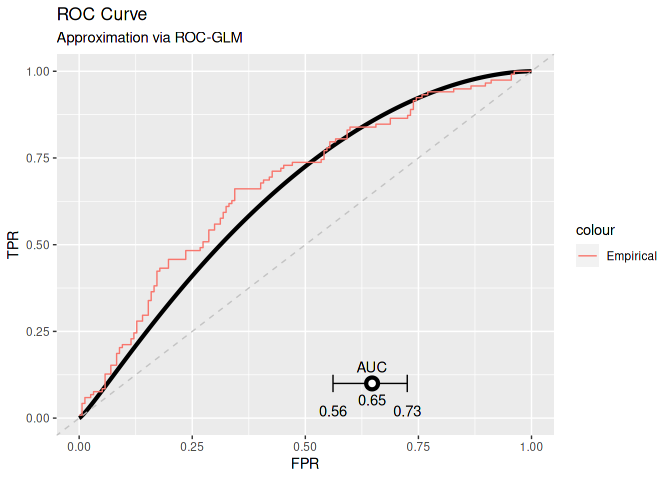
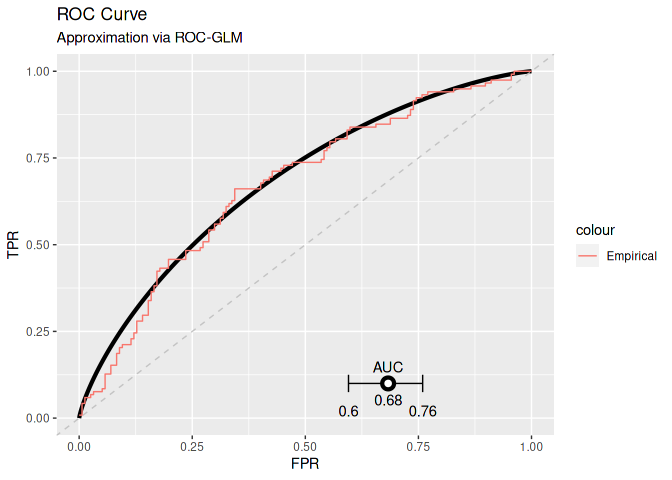
updates

diff --git a/README.md b/README.md
@@ -98,14 +98,14 @@ for (i in seq_along(datasets)) {
 conn = datashield.login(logins = builder$build(), assign = TRUE)
 #> 
 #> Logging into the collaborating servers
-#>    [-------------------------------------------------------------------------------------]   0% / 0s  Login ds1 [============>---------------------------------------------------------------]  17% / 0s  Login ds2 [========================>---------------------------------------------------]  33% / 0s  Login ds3 [=====================================>--------------------------------------]  50% / 1s  Login ds4 [==================================================>-------------------------]  67% / 1s  Login ds5 [==============================================================>-------------]  83% / 2s  Logged in all servers [================================================================] 100% / 2s
+#>    [-------------------------------------------------------------------------------------]   0% / 0s  Login ds1 [============>---------------------------------------------------------------]  17% / 0s  Login ds2 [========================>---------------------------------------------------]  33% / 0s  Login ds3 [=====================================>--------------------------------------]  50% / 1s  Login ds4 [==================================================>-------------------------]  67% / 1s  Login ds5 [==============================================================>-------------]  83% / 1s  Logged in all servers [================================================================] 100% / 2s
 #> 
 #>   No variables have been specified. 
 #>   All the variables in the table 
 #>   (the whole dataset) will be assigned to R!
 #> 
 #> Assigning table data...
-#>    [-------------------------------------------------------------------------------------]   0% / 0s  Assigning ds1 (DIFUTURE-TEST.SRV1) [=======>-------------------------------------------]  17% / 2s  Assigning ds2 (DIFUTURE-TEST.SRV2) [================>----------------------------------]  33% / 2s  Assigning ds3 (DIFUTURE-TEST.SRV3) [=========================>-------------------------]  50% / 2s  Assigning ds4 (DIFUTURE-TEST.SRV4) [=================================>-----------------]  67% / 3s  Assigning ds5 (DIFUTURE-TEST.SRV5) [=========================================>---------]  83% / 3s  Assigned all tables [==================================================================] 100% / 3s
+#>    [-------------------------------------------------------------------------------------]   0% / 0s  Assigning ds1 (DIFUTURE-TEST.SRV1) [=======>-------------------------------------------]  17% / 2s  Assigning ds2 (DIFUTURE-TEST.SRV2) [================>----------------------------------]  33% / 2s  Assigning ds3 (DIFUTURE-TEST.SRV3) [=========================>-------------------------]  50% / 3s  Assigning ds4 (DIFUTURE-TEST.SRV4) [=================================>-----------------]  67% / 3s  Assigning ds5 (DIFUTURE-TEST.SRV5) [=========================================>---------]  83% / 3s  Assigned all tables [==================================================================] 100% / 3s
 datashield.symbols(conn)
 #> $ds1
 #> [1] "D"
@@ -217,7 +217,7 @@ load(here::here("data/mod.Rda"))
 
 ## Push the model to the servers:
 pushObject(conn, obj = mod)
-#> [2022-02-10 17:57:29] Your object is bigger than 1 MB (7.2 MB). Uploading larger objects may take some time.
+#> [2022-02-10 18:06:07] Your object is bigger than 1 MB (7.2 MB). Uploading larger objects may take some time.
 #>    [-------------------------------------------------------------------------------------]   0% / 0s  Checking ds1 (mod <- decodeBinary("58-0a-00-00-00-03-00-04-01-02-00-03-05-00-00-00-00-05-55-54-...  Finalizing assignment ds1 (mod <- decodeBinary("58-0a-00-00-00-03-00-04-01-02-00-03-05-00-00-00...  Checking ds2 (mod <- decodeBinary("58-0a-00-00-00-03-00-04-01-02-00-03-05-00-00-00-00-05-55-54-...  Finalizing assignment ds2 (mod <- decodeBinary("58-0a-00-00-00-03-00-04-01-02-00-03-05-00-00-00...  Checking ds3 (mod <- decodeBinary("58-0a-00-00-00-03-00-04-01-02-00-03-05-00-00-00-00-05-55-54-...  Finalizing assignment ds3 (mod <- decodeBinary("58-0a-00-00-00-03-00-04-01-02-00-03-05-00-00-00...  Checking ds4 (mod <- decodeBinary("58-0a-00-00-00-03-00-04-01-02-00-03-05-00-00-00-00-05-55-54-...  Finalizing assignment ds4 (mod <- decodeBinary("58-0a-00-00-00-03-00-04-01-02-00-03-05-00-00-00...  Checking ds5 (mod <- decodeBinary("58-0a-00-00-00-03-00-04-01-02-00-03-05-00-00-00-00-05-55-54-...  Finalizing assignment ds5 (mod <- decodeBinary("58-0a-00-00-00-03-00-04-01-02-00-03-05-00-00-00...  Assigned expr. (mod <- decodeBinary("58-0a-00-00-00-03-00-04-01-02-00-03-05-00-00-00-00-05-55-5...
 datashield.symbols(conn)
 #> $ds1
@@ -283,7 +283,7 @@ l2s = dsL2Sens(conn, "D", "probs")
 #>    [-------------------------------------------------------------------------------------]   0% / 0s  Checking ds1 (dimDS("D")) [------------------------------------------------------------]   0% / 0s  Getting aggregate ds1 (dimDS("D")) [=======>-------------------------------------------]  17% / 0s  Checking ds2 (dimDS("D")) [=========>--------------------------------------------------]  17% / 0s  Getting aggregate ds2 (dimDS("D")) [================>----------------------------------]  33% / 0s  Checking ds3 (dimDS("D")) [===================>----------------------------------------]  33% / 1s  Getting aggregate ds3 (dimDS("D")) [=========================>-------------------------]  50% / 1s  Checking ds4 (dimDS("D")) [=============================>------------------------------]  50% / 1s  Getting aggregate ds4 (dimDS("D")) [=================================>-----------------]  67% / 1s  Checking ds5 (dimDS("D")) [=======================================>--------------------]  67% / 1s  Getting aggregate ds5 (dimDS("D")) [=========================================>---------]  83% / 1s  Aggregated (dimDS("D")) [==============================================================] 100% / 1s
 #>    [-------------------------------------------------------------------------------------]   0% / 0s  Checking ds1 (xXcols <- decodeBinary("58-0a-00-00-00-03-00-04-01-02-00-03-05-00-00-00-00-05-55-...  Finalizing assignment ds1 (xXcols <- decodeBinary("58-0a-00-00-00-03-00-04-01-02-00-03-05-00-00...  Checking ds2 (xXcols <- decodeBinary("58-0a-00-00-00-03-00-04-01-02-00-03-05-00-00-00-00-05-55-...  Finalizing assignment ds2 (xXcols <- decodeBinary("58-0a-00-00-00-03-00-04-01-02-00-03-05-00-00...  Checking ds3 (xXcols <- decodeBinary("58-0a-00-00-00-03-00-04-01-02-00-03-05-00-00-00-00-05-55-...  Finalizing assignment ds3 (xXcols <- decodeBinary("58-0a-00-00-00-03-00-04-01-02-00-03-05-00-00...  Checking ds4 (xXcols <- decodeBinary("58-0a-00-00-00-03-00-04-01-02-00-03-05-00-00-00-00-05-55-...  Finalizing assignment ds4 (xXcols <- decodeBinary("58-0a-00-00-00-03-00-04-01-02-00-03-05-00-00...  Checking ds5 (xXcols <- decodeBinary("58-0a-00-00-00-03-00-04-01-02-00-03-05-00-00-00-00-05-55-...  Finalizing assignment ds5 (xXcols <- decodeBinary("58-0a-00-00-00-03-00-04-01-02-00-03-05-00-00...  Assigned expr. (xXcols <- decodeBinary("58-0a-00-00-00-03-00-04-01-02-00-03-05-00-00-00-00-05-5...
 #>    [-------------------------------------------------------------------------------------]   0% / 0s  Checking ds1 (l2sens("D", "probs", 91, "xXcols")) [------------------------------------]   0% / 0s  Getting aggregate ds1 (l2sens("D", "probs", 91, "xXcols")) [===>-----------------------]  17% / 0s  Checking ds2 (l2sens("D", "probs", 91, "xXcols")) [=====>------------------------------]  17% / 0s  Getting aggregate ds2 (l2sens("D", "probs", 91, "xXcols")) [========>------------------]  33% / 0s  Checking ds3 (l2sens("D", "probs", 91, "xXcols")) [===========>------------------------]  33% / 1s  Getting aggregate ds3 (l2sens("D", "probs", 91, "xXcols")) [=============>-------------]  50% / 1s  Checking ds4 (l2sens("D", "probs", 91, "xXcols")) [=================>------------------]  50% / 1s  Getting aggregate ds4 (l2sens("D", "probs", 91, "xXcols")) [=================>---------]  67% / 1s  Checking ds5 (l2sens("D", "probs", 91, "xXcols")) [=======================>------------]  67% / 1s  Getting aggregate ds5 (l2sens("D", "probs", 91, "xXcols")) [=====================>-----]  83% / 1s  Aggregated (...) [=====================================================================] 100% / 1s
-#>    [-------------------------------------------------------------------------------------]   0% / 0s  Checking ds1 (rmDS("xXcols")) [--------------------------------------------------------]   0% / 0s  Getting aggregate ds1 (rmDS("xXcols")) [=======>---------------------------------------]  17% / 0s  Checking ds2 (rmDS("xXcols")) [========>-----------------------------------------------]  17% / 0s  Getting aggregate ds2 (rmDS("xXcols")) [===============>-------------------------------]  33% / 0s  Checking ds3 (rmDS("xXcols")) [==================>-------------------------------------]  33% / 0s  Getting aggregate ds3 (rmDS("xXcols")) [=======================>-----------------------]  50% / 1s  Checking ds4 (rmDS("xXcols")) [===========================>----------------------------]  50% / 1s  Getting aggregate ds4 (rmDS("xXcols")) [==============================>----------------]  67% / 1s  Checking ds5 (rmDS("xXcols")) [====================================>-------------------]  67% / 1s  Getting aggregate ds5 (rmDS("xXcols")) [======================================>--------]  83% / 1s  Aggregated (rmDS("xXcols")) [==========================================================] 100% / 1s
+#>    [-------------------------------------------------------------------------------------]   0% / 0s  Checking ds1 (rmDS("xXcols")) [--------------------------------------------------------]   0% / 0s  Getting aggregate ds1 (rmDS("xXcols")) [=======>---------------------------------------]  17% / 0s  Checking ds2 (rmDS("xXcols")) [========>-----------------------------------------------]  17% / 0s  Getting aggregate ds2 (rmDS("xXcols")) [===============>-------------------------------]  33% / 0s  Checking ds3 (rmDS("xXcols")) [==================>-------------------------------------]  33% / 1s  Getting aggregate ds3 (rmDS("xXcols")) [=======================>-----------------------]  50% / 1s  Checking ds4 (rmDS("xXcols")) [===========================>----------------------------]  50% / 1s  Getting aggregate ds4 (rmDS("xXcols")) [==============================>----------------]  67% / 1s  Checking ds5 (rmDS("xXcols")) [====================================>-------------------]  67% / 1s  Getting aggregate ds5 (rmDS("xXcols")) [======================================>--------]  83% / 1s  Aggregated (rmDS("xXcols")) [==========================================================] 100% / 1s
 epsilon = 0.3
 delta = 0.2
 
@@ -300,42 +300,42 @@ roc_glm = dsROCGLM(conn, "D$cens", "probs", epsilon = epsilon,
 #>    [-------------------------------------------------------------------------------------]   0% / 0s  Checking ds1 (l2sens("D", "probs", 91, "xXcols")) [------------------------------------]   0% / 0s  Getting aggregate ds1 (l2sens("D", "probs", 91, "xXcols")) [===>-----------------------]  17% / 0s  Checking ds2 (l2sens("D", "probs", 91, "xXcols")) [=====>------------------------------]  17% / 0s  Getting aggregate ds2 (l2sens("D", "probs", 91, "xXcols")) [========>------------------]  33% / 0s  Checking ds3 (l2sens("D", "probs", 91, "xXcols")) [===========>------------------------]  33% / 1s  Getting aggregate ds3 (l2sens("D", "probs", 91, "xXcols")) [=============>-------------]  50% / 1s  Checking ds4 (l2sens("D", "probs", 91, "xXcols")) [=================>------------------]  50% / 1s  Getting aggregate ds4 (l2sens("D", "probs", 91, "xXcols")) [=================>---------]  67% / 1s  Checking ds5 (l2sens("D", "probs", 91, "xXcols")) [=======================>------------]  67% / 1s  Getting aggregate ds5 (l2sens("D", "probs", 91, "xXcols")) [=====================>-----]  83% / 1s  Aggregated (...) [=====================================================================] 100% / 1s
 #>    [-------------------------------------------------------------------------------------]   0% / 0s  Checking ds1 (rmDS("xXcols")) [--------------------------------------------------------]   0% / 0s  Getting aggregate ds1 (rmDS("xXcols")) [=======>---------------------------------------]  17% / 0s  Checking ds2 (rmDS("xXcols")) [========>-----------------------------------------------]  17% / 0s  Getting aggregate ds2 (rmDS("xXcols")) [===============>-------------------------------]  33% / 0s  Checking ds3 (rmDS("xXcols")) [==================>-------------------------------------]  33% / 1s  Getting aggregate ds3 (rmDS("xXcols")) [=======================>-----------------------]  50% / 1s  Checking ds4 (rmDS("xXcols")) [===========================>----------------------------]  50% / 1s  Getting aggregate ds4 (rmDS("xXcols")) [==============================>----------------]  67% / 1s  Checking ds5 (rmDS("xXcols")) [====================================>-------------------]  67% / 1s  Getting aggregate ds5 (rmDS("xXcols")) [======================================>--------]  83% / 1s  Aggregated (rmDS("xXcols")) [==========================================================] 100% / 1s
 #> 
-#> [2022-02-10 18:00:46] L2 sensitivity is: 0.016
+#> [2022-02-10 18:09:26] L2 sensitivity is: 0.016
 #> 
 #>    [-------------------------------------------------------------------------------------]   0% / 0s  Checking ds1 (l2s <- decodeBinary("58-0a-00-00-00-03-00-04-01-02-00-03-05-00-00-00-00-05-55-54-...  Finalizing assignment ds1 (l2s <- decodeBinary("58-0a-00-00-00-03-00-04-01-02-00-03-05-00-00-00...  Checking ds2 (l2s <- decodeBinary("58-0a-00-00-00-03-00-04-01-02-00-03-05-00-00-00-00-05-55-54-...  Finalizing assignment ds2 (l2s <- decodeBinary("58-0a-00-00-00-03-00-04-01-02-00-03-05-00-00-00...  Checking ds3 (l2s <- decodeBinary("58-0a-00-00-00-03-00-04-01-02-00-03-05-00-00-00-00-05-55-54-...  Finalizing assignment ds3 (l2s <- decodeBinary("58-0a-00-00-00-03-00-04-01-02-00-03-05-00-00-00...  Checking ds4 (l2s <- decodeBinary("58-0a-00-00-00-03-00-04-01-02-00-03-05-00-00-00-00-05-55-54-...  Finalizing assignment ds4 (l2s <- decodeBinary("58-0a-00-00-00-03-00-04-01-02-00-03-05-00-00-00...  Checking ds5 (l2s <- decodeBinary("58-0a-00-00-00-03-00-04-01-02-00-03-05-00-00-00-00-05-55-54-...  Finalizing assignment ds5 (l2s <- decodeBinary("58-0a-00-00-00-03-00-04-01-02-00-03-05-00-00-00...  Assigned expr. (l2s <- decodeBinary("58-0a-00-00-00-03-00-04-01-02-00-03-05-00-00-00-00-05-55-5...
 #> 
-#> [2022-02-10 18:00:47] Initializing ROC-GLM
+#> [2022-02-10 18:09:27] Initializing ROC-GLM
 #> 
-#> [2022-02-10 18:00:47] Host: Received scores of negative response
+#> [2022-02-10 18:09:27] Host: Received scores of negative response
 #> 
-#> [2022-02-10 18:00:47] Receiving negative scores
+#> [2022-02-10 18:09:27] Receiving negative scores
 #>    [-------------------------------------------------------------------------------------]   0% / 0s  Checking ds1 (getNegativeScores("D$cens", "probs", 0.3, 0.2)) [------------------------]   0% / 0s  Getting aggregate ds1 (getNegativeScores("D$cens", "probs", 0.3, 0.2)) [=>-------------]  17% / 0s  Checking ds2 (getNegativeScores("D$cens", "probs", 0.3, 0.2)) [===>--------------------]  17% / 0s  Getting aggregate ds2 (getNegativeScores("D$cens", "probs", 0.3, 0.2)) [====>----------]  33% / 0s  Checking ds3 (getNegativeScores("D$cens", "probs", 0.3, 0.2)) [=======>----------------]  33% / 1s  Getting aggregate ds3 (getNegativeScores("D$cens", "probs", 0.3, 0.2)) [=======>-------]  50% / 1s  Checking ds4 (getNegativeScores("D$cens", "probs", 0.3, 0.2)) [===========>------------]  50% / 1s  Getting aggregate ds4 (getNegativeScores("D$cens", "probs", 0.3, 0.2)) [=========>-----]  67% / 1s  Checking ds5 (getNegativeScores("D$cens", "probs", 0.3, 0.2)) [===============>--------]  67% / 1s  Getting aggregate ds5 (getNegativeScores("D$cens", "probs", 0.3, 0.2)) [===========>---]  83% / 1s  Aggregated (...) [=====================================================================] 100% / 1s
-#> [2022-02-10 18:00:48] Host: Pushing pooled scores
+#> [2022-02-10 18:09:28] Host: Pushing pooled scores
 #>    [-------------------------------------------------------------------------------------]   0% / 0s  Checking ds1 (pooled_scores <- decodeBinary("58-0a-00-00-00-03-00-04-01-02-00-03-05-00-00-00-00...  Finalizing assignment ds1 (pooled_scores <- decodeBinary("58-0a-00-00-00-03-00-04-01-02-00-03-0...  Checking ds2 (pooled_scores <- decodeBinary("58-0a-00-00-00-03-00-04-01-02-00-03-05-00-00-00-00...  Finalizing assignment ds2 (pooled_scores <- decodeBinary("58-0a-00-00-00-03-00-04-01-02-00-03-0...  Checking ds3 (pooled_scores <- decodeBinary("58-0a-00-00-00-03-00-04-01-02-00-03-05-00-00-00-00...  Finalizing assignment ds3 (pooled_scores <- decodeBinary("58-0a-00-00-00-03-00-04-01-02-00-03-0...  Checking ds4 (pooled_scores <- decodeBinary("58-0a-00-00-00-03-00-04-01-02-00-03-05-00-00-00-00...  Finalizing assignment ds4 (pooled_scores <- decodeBinary("58-0a-00-00-00-03-00-04-01-02-00-03-0...  Checking ds5 (pooled_scores <- decodeBinary("58-0a-00-00-00-03-00-04-01-02-00-03-05-00-00-00-00...  Finalizing assignment ds5 (pooled_scores <- decodeBinary("58-0a-00-00-00-03-00-04-01-02-00-03-0...  Assigned expr. (pooled_scores <- decodeBinary("58-0a-00-00-00-03-00-04-01-02-00-03-05-00-00-00-...
-#> [2022-02-10 18:00:49] Server: Calculating placement values and parts for ROC-GLM
+#> [2022-02-10 18:09:29] Server: Calculating placement values and parts for ROC-GLM
 #>    [-------------------------------------------------------------------------------------]   0% / 0s  Checking ds1 (roc_data <- rocGLMFrame("D$cens", "probs", "pooled_scores")) [-----------]   0% / 0s  Finalizing assignment ds1 (roc_data <- rocGLMFrame("D$cens", "probs", "pooled_scores")) []  17%...  Checking ds2 (roc_data <- rocGLMFrame("D$cens", "probs", "pooled_scores")) [=>---------]  17% / 0s  Finalizing assignment ds2 (roc_data <- rocGLMFrame("D$cens", "probs", "pooled_scores")) []  33%...  Checking ds3 (roc_data <- rocGLMFrame("D$cens", "probs", "pooled_scores")) [===>-------]  33% / 1s  Finalizing assignment ds3 (roc_data <- rocGLMFrame("D$cens", "probs", "pooled_scores")) []  50%...  Checking ds4 (roc_data <- rocGLMFrame("D$cens", "probs", "pooled_scores")) [=====>-----]  50% / 1s  Finalizing assignment ds4 (roc_data <- rocGLMFrame("D$cens", "probs", "pooled_scores")) []  67%...  Checking ds5 (roc_data <- rocGLMFrame("D$cens", "probs", "pooled_scores")) [======>----]  67% / 1s  Finalizing assignment ds5 (roc_data <- rocGLMFrame("D$cens", "probs", "pooled_scores")) []  83%...  Assigned expr. (roc_data <- rocGLMFrame("D$cens", "probs", "pooled_scores")) [=========] 100% / 1s
-#> [2022-02-10 18:00:50] Server: Calculating probit regression to obtain ROC-GLM
+#> [2022-02-10 18:09:30] Server: Calculating probit regression to obtain ROC-GLM
 #>    [-------------------------------------------------------------------------------------]   0% / 0s  Checking ds1 (calculateDistrGLMParts(formula = y ~ x, data = "roc_data", w = "w", ) [--]   0% / 0s  Getting aggregate ds1 (calculateDistrGLMParts(formula = y ~ x, data = "roc_data", w = "w", ) []...  Checking ds2 (calculateDistrGLMParts(formula = y ~ x, data = "roc_data", w = "w", ) [--]  17% / 0s  Getting aggregate ds2 (calculateDistrGLMParts(formula = y ~ x, data = "roc_data", w = "w", ) []...  Checking ds3 (calculateDistrGLMParts(formula = y ~ x, data = "roc_data", w = "w", ) [>-]  33% / 1s  Getting aggregate ds3 (calculateDistrGLMParts(formula = y ~ x, data = "roc_data", w = "w", ) []...  Checking ds4 (calculateDistrGLMParts(formula = y ~ x, data = "roc_data", w = "w", ) [>-]  50% / 1s  Getting aggregate ds4 (calculateDistrGLMParts(formula = y ~ x, data = "roc_data", w = "w", ) []...  Checking ds5 (calculateDistrGLMParts(formula = y ~ x, data = "roc_data", w = "w", ) [>-]  67% / 1s  Getting aggregate ds5 (calculateDistrGLMParts(formula = y ~ x, data = "roc_data", w = "w", ) []...  Aggregated (calculateDistrGLMParts(formula = y ~ x, data = "roc_data", w = "w", ) [====] 100% / 1s
-#> [2022-02-10 18:00:51] Deviance of iter1=52.6631
+#> [2022-02-10 18:09:31] Deviance of iter1=52.6631
 #>    [-------------------------------------------------------------------------------------]   0% / 0s  Checking ds1 (calculateDistrGLMParts(formula = y ~ x, data = "roc_data", w = "w", ) [--]   0% / 0s  Getting aggregate ds1 (calculateDistrGLMParts(formula = y ~ x, data = "roc_data", w = "w", ) []...  Checking ds2 (calculateDistrGLMParts(formula = y ~ x, data = "roc_data", w = "w", ) [--]  17% / 0s  Getting aggregate ds2 (calculateDistrGLMParts(formula = y ~ x, data = "roc_data", w = "w", ) []...  Checking ds3 (calculateDistrGLMParts(formula = y ~ x, data = "roc_data", w = "w", ) [>-]  33% / 1s  Getting aggregate ds3 (calculateDistrGLMParts(formula = y ~ x, data = "roc_data", w = "w", ) []...  Checking ds4 (calculateDistrGLMParts(formula = y ~ x, data = "roc_data", w = "w", ) [>-]  50% / 1s  Getting aggregate ds4 (calculateDistrGLMParts(formula = y ~ x, data = "roc_data", w = "w", ) []...  Checking ds5 (calculateDistrGLMParts(formula = y ~ x, data = "roc_data", w = "w", ) [>-]  67% / 1s  Getting aggregate ds5 (calculateDistrGLMParts(formula = y ~ x, data = "roc_data", w = "w", ) []...  Aggregated (calculateDistrGLMParts(formula = y ~ x, data = "roc_data", w = "w", ) [====] 100% / 1s
-#> [2022-02-10 18:00:52] Deviance of iter2=75.3704
+#> [2022-02-10 18:09:32] Deviance of iter2=81.516
 #>    [-------------------------------------------------------------------------------------]   0% / 0s  Checking ds1 (calculateDistrGLMParts(formula = y ~ x, data = "roc_data", w = "w", ) [--]   0% / 0s  Getting aggregate ds1 (calculateDistrGLMParts(formula = y ~ x, data = "roc_data", w = "w", ) []...  Checking ds2 (calculateDistrGLMParts(formula = y ~ x, data = "roc_data", w = "w", ) [--]  17% / 0s  Getting aggregate ds2 (calculateDistrGLMParts(formula = y ~ x, data = "roc_data", w = "w", ) []...  Checking ds3 (calculateDistrGLMParts(formula = y ~ x, data = "roc_data", w = "w", ) [>-]  33% / 1s  Getting aggregate ds3 (calculateDistrGLMParts(formula = y ~ x, data = "roc_data", w = "w", ) []...  Checking ds4 (calculateDistrGLMParts(formula = y ~ x, data = "roc_data", w = "w", ) [>-]  50% / 1s  Getting aggregate ds4 (calculateDistrGLMParts(formula = y ~ x, data = "roc_data", w = "w", ) []...  Checking ds5 (calculateDistrGLMParts(formula = y ~ x, data = "roc_data", w = "w", ) [>-]  67% / 1s  Getting aggregate ds5 (calculateDistrGLMParts(formula = y ~ x, data = "roc_data", w = "w", ) []...  Aggregated (calculateDistrGLMParts(formula = y ~ x, data = "roc_data", w = "w", ) [====] 100% / 1s
-#> [2022-02-10 18:00:53] Deviance of iter3=86.5991
+#> [2022-02-10 18:09:33] Deviance of iter3=92.9034
 #>    [-------------------------------------------------------------------------------------]   0% / 0s  Checking ds1 (calculateDistrGLMParts(formula = y ~ x, data = "roc_data", w = "w", ) [--]   0% / 0s  Getting aggregate ds1 (calculateDistrGLMParts(formula = y ~ x, data = "roc_data", w = "w", ) []...  Checking ds2 (calculateDistrGLMParts(formula = y ~ x, data = "roc_data", w = "w", ) [--]  17% / 0s  Getting aggregate ds2 (calculateDistrGLMParts(formula = y ~ x, data = "roc_data", w = "w", ) []...  Checking ds3 (calculateDistrGLMParts(formula = y ~ x, data = "roc_data", w = "w", ) [>-]  33% / 1s  Getting aggregate ds3 (calculateDistrGLMParts(formula = y ~ x, data = "roc_data", w = "w", ) []...  Checking ds4 (calculateDistrGLMParts(formula = y ~ x, data = "roc_data", w = "w", ) [>-]  50% / 1s  Getting aggregate ds4 (calculateDistrGLMParts(formula = y ~ x, data = "roc_data", w = "w", ) []...  Checking ds5 (calculateDistrGLMParts(formula = y ~ x, data = "roc_data", w = "w", ) [>-]  67% / 1s  Getting aggregate ds5 (calculateDistrGLMParts(formula = y ~ x, data = "roc_data", w = "w", ) []...  Aggregated (calculateDistrGLMParts(formula = y ~ x, data = "roc_data", w = "w", ) [====] 100% / 1s
-#> [2022-02-10 18:00:54] Deviance of iter4=87.3497
+#> [2022-02-10 18:09:34] Deviance of iter4=93.5461
 #>    [-------------------------------------------------------------------------------------]   0% / 0s  Checking ds1 (calculateDistrGLMParts(formula = y ~ x, data = "roc_data", w = "w", ) [--]   0% / 0s  Getting aggregate ds1 (calculateDistrGLMParts(formula = y ~ x, data = "roc_data", w = "w", ) []...  Checking ds2 (calculateDistrGLMParts(formula = y ~ x, data = "roc_data", w = "w", ) [--]  17% / 0s  Getting aggregate ds2 (calculateDistrGLMParts(formula = y ~ x, data = "roc_data", w = "w", ) []...  Checking ds3 (calculateDistrGLMParts(formula = y ~ x, data = "roc_data", w = "w", ) [>-]  33% / 1s  Getting aggregate ds3 (calculateDistrGLMParts(formula = y ~ x, data = "roc_data", w = "w", ) []...  Checking ds4 (calculateDistrGLMParts(formula = y ~ x, data = "roc_data", w = "w", ) [>-]  50% / 1s  Getting aggregate ds4 (calculateDistrGLMParts(formula = y ~ x, data = "roc_data", w = "w", ) []...  Checking ds5 (calculateDistrGLMParts(formula = y ~ x, data = "roc_data", w = "w", ) [>-]  67% / 1s  Getting aggregate ds5 (calculateDistrGLMParts(formula = y ~ x, data = "roc_data", w = "w", ) []...  Aggregated (calculateDistrGLMParts(formula = y ~ x, data = "roc_data", w = "w", ) [====] 100% / 1s
-#> [2022-02-10 18:00:55] Deviance of iter5=87.3526
+#> [2022-02-10 18:09:35] Deviance of iter5=93.548
 #>    [-------------------------------------------------------------------------------------]   0% / 0s  Checking ds1 (calculateDistrGLMParts(formula = y ~ x, data = "roc_data", w = "w", ) [--]   0% / 0s  Getting aggregate ds1 (calculateDistrGLMParts(formula = y ~ x, data = "roc_data", w = "w", ) []...  Checking ds2 (calculateDistrGLMParts(formula = y ~ x, data = "roc_data", w = "w", ) [--]  17% / 0s  Getting aggregate ds2 (calculateDistrGLMParts(formula = y ~ x, data = "roc_data", w = "w", ) []...  Checking ds3 (calculateDistrGLMParts(formula = y ~ x, data = "roc_data", w = "w", ) [>-]  33% / 1s  Getting aggregate ds3 (calculateDistrGLMParts(formula = y ~ x, data = "roc_data", w = "w", ) []...  Checking ds4 (calculateDistrGLMParts(formula = y ~ x, data = "roc_data", w = "w", ) [>-]  50% / 1s  Getting aggregate ds4 (calculateDistrGLMParts(formula = y ~ x, data = "roc_data", w = "w", ) []...  Checking ds5 (calculateDistrGLMParts(formula = y ~ x, data = "roc_data", w = "w", ) [>-]  67% / 1s  Getting aggregate ds5 (calculateDistrGLMParts(formula = y ~ x, data = "roc_data", w = "w", ) []...  Aggregated (calculateDistrGLMParts(formula = y ~ x, data = "roc_data", w = "w", ) [====] 100% / 1s
-#> [2022-02-10 18:00:56] Deviance of iter6=87.3526
-#> [2022-02-10 18:00:56] Host: Finished calculating ROC-GLM
-#> [2022-02-10 18:00:56] Host: Cleaning data on server
-#> [2022-02-10 18:00:58] Host: Calculating AUC and CI
+#> [2022-02-10 18:09:36] Deviance of iter6=93.548
+#> [2022-02-10 18:09:36] Host: Finished calculating ROC-GLM
+#> [2022-02-10 18:09:36] Host: Cleaning data on server
+#> [2022-02-10 18:09:38] Host: Calculating AUC and CI
 #>    [-------------------------------------------------------------------------------------]   0% / 0s  Checking ds1 (meanDS(D$cens)) [--------------------------------------------------------]   0% / 0s  Getting aggregate ds1 (meanDS(D$cens)) [=======>---------------------------------------]  17% / 0s  Checking ds2 (meanDS(D$cens)) [========>-----------------------------------------------]  17% / 0s  Getting aggregate ds2 (meanDS(D$cens)) [===============>-------------------------------]  33% / 0s  Checking ds3 (meanDS(D$cens)) [==================>-------------------------------------]  33% / 1s  Getting aggregate ds3 (meanDS(D$cens)) [=======================>-----------------------]  50% / 1s  Checking ds4 (meanDS(D$cens)) [===========================>----------------------------]  50% / 1s  Getting aggregate ds4 (meanDS(D$cens)) [==============================>----------------]  67% / 1s  Checking ds5 (meanDS(D$cens)) [====================================>-------------------]  67% / 1s  Getting aggregate ds5 (meanDS(D$cens)) [======================================>--------]  83% / 1s  Aggregated (meanDS(D$cens)) [==========================================================] 100% / 1s
 #>    [-------------------------------------------------------------------------------------]   0% / 0s  Checking ds1 (getNegativeScoresVar("D$cens", "probs")) [-------------------------------]   0% / 0s  Getting aggregate ds1 (getNegativeScoresVar("D$cens", "probs")) [===>------------------]  17% / 0s  Checking ds2 (getNegativeScoresVar("D$cens", "probs")) [====>--------------------------]  17% / 0s  Getting aggregate ds2 (getNegativeScoresVar("D$cens", "probs")) [======>---------------]  33% / 0s  Checking ds3 (getNegativeScoresVar("D$cens", "probs")) [=========>---------------------]  33% / 1s  Getting aggregate ds3 (getNegativeScoresVar("D$cens", "probs")) [==========>-----------]  50% / 1s  Checking ds4 (getNegativeScoresVar("D$cens", "probs")) [===============>---------------]  50% / 1s  Getting aggregate ds4 (getNegativeScoresVar("D$cens", "probs")) [==============>-------]  67% / 1s  Checking ds5 (getNegativeScoresVar("D$cens", "probs")) [====================>----------]  67% / 1s  Getting aggregate ds5 (getNegativeScoresVar("D$cens", "probs")) [=================>----]  83% / 1s  Aggregated (...) [=====================================================================] 100% / 1s
 #>    [-------------------------------------------------------------------------------------]   0% / 0s  Checking ds1 (getPositiveScoresVar("D$cens", "probs")) [-------------------------------]   0% / 0s  Getting aggregate ds1 (getPositiveScoresVar("D$cens", "probs")) [===>------------------]  17% / 0s  Checking ds2 (getPositiveScoresVar("D$cens", "probs")) [====>--------------------------]  17% / 0s  Getting aggregate ds2 (getPositiveScoresVar("D$cens", "probs")) [======>---------------]  33% / 0s  Checking ds3 (getPositiveScoresVar("D$cens", "probs")) [=========>---------------------]  33% / 1s  Getting aggregate ds3 (getPositiveScoresVar("D$cens", "probs")) [==========>-----------]  50% / 1s  Checking ds4 (getPositiveScoresVar("D$cens", "probs")) [===============>---------------]  50% / 1s  Getting aggregate ds4 (getPositiveScoresVar("D$cens", "probs")) [==============>-------]  67% / 1s  Checking ds5 (getPositiveScoresVar("D$cens", "probs")) [====================>----------]  67% / 1s  Getting aggregate ds5 (getPositiveScoresVar("D$cens", "probs")) [=================>----]  83% / 1s  Aggregated (...) [=====================================================================] 100% / 1s
 #>    [-------------------------------------------------------------------------------------]   0% / 0s  Checking ds1 (getNegativeScores("D$cens", "probs", 0.3, 0.2)) [------------------------]   0% / 0s  Getting aggregate ds1 (getNegativeScores("D$cens", "probs", 0.3, 0.2)) [=>-------------]  17% / 0s  Checking ds2 (getNegativeScores("D$cens", "probs", 0.3, 0.2)) [===>--------------------]  17% / 0s  Getting aggregate ds2 (getNegativeScores("D$cens", "probs", 0.3, 0.2)) [====>----------]  33% / 0s  Checking ds3 (getNegativeScores("D$cens", "probs", 0.3, 0.2)) [=======>----------------]  33% / 1s  Getting aggregate ds3 (getNegativeScores("D$cens", "probs", 0.3, 0.2)) [=======>-------]  50% / 1s  Checking ds4 (getNegativeScores("D$cens", "probs", 0.3, 0.2)) [===========>------------]  50% / 1s  Getting aggregate ds4 (getNegativeScores("D$cens", "probs", 0.3, 0.2)) [=========>-----]  67% / 1s  Checking ds5 (getNegativeScores("D$cens", "probs", 0.3, 0.2)) [===============>--------]  67% / 1s  Getting aggregate ds5 (getNegativeScores("D$cens", "probs", 0.3, 0.2)) [===========>---]  83% / 1s  Aggregated (...) [=====================================================================] 100% / 1s
 #>    [-------------------------------------------------------------------------------------]   0% / 0s  Checking ds1 (getPositiveScores("D$cens", "probs", 0.3, 0.2)) [------------------------]   0% / 0s  Getting aggregate ds1 (getPositiveScores("D$cens", "probs", 0.3, 0.2)) [=>-------------]  17% / 0s  Checking ds2 (getPositiveScores("D$cens", "probs", 0.3, 0.2)) [===>--------------------]  17% / 0s  Getting aggregate ds2 (getPositiveScores("D$cens", "probs", 0.3, 0.2)) [====>----------]  33% / 0s  Checking ds3 (getPositiveScores("D$cens", "probs", 0.3, 0.2)) [=======>----------------]  33% / 1s  Getting aggregate ds3 (getPositiveScores("D$cens", "probs", 0.3, 0.2)) [=======>-------]  50% / 1s  Checking ds4 (getPositiveScores("D$cens", "probs", 0.3, 0.2)) [===========>------------]  50% / 1s  Getting aggregate ds4 (getPositiveScores("D$cens", "probs", 0.3, 0.2)) [=========>-----]  67% / 1s  Checking ds5 (getPositiveScores("D$cens", "probs", 0.3, 0.2)) [===============>--------]  67% / 1s  Getting aggregate ds5 (getPositiveScores("D$cens", "probs", 0.3, 0.2)) [===========>---]  83% / 1s  Aggregated (...) [=====================================================================] 100% / 1s
-#> [2022-02-10 18:01:03] Finished!
+#> [2022-02-10 18:09:43] Finished!
 gg_distr_roc = plot(roc_glm)
 gg_distr_roc
 ```
@@ -367,7 +367,7 @@ auc = pROC::auc(dat_test$cens, probs)
 #> Setting direction: controls < cases
 c(auc_emp = auc, auc_distr_roc_glm = roc_glm$auc)
 #>           auc_emp auc_distr_roc_glm 
-#>            0.6725            0.6476
+#>            0.6725            0.6831
 
 # Calculate TPR and FPR values and add to distributed ROC-GLM plot
 plt_emp_roc_data = simpleROC(dat_test$cens, probs)
